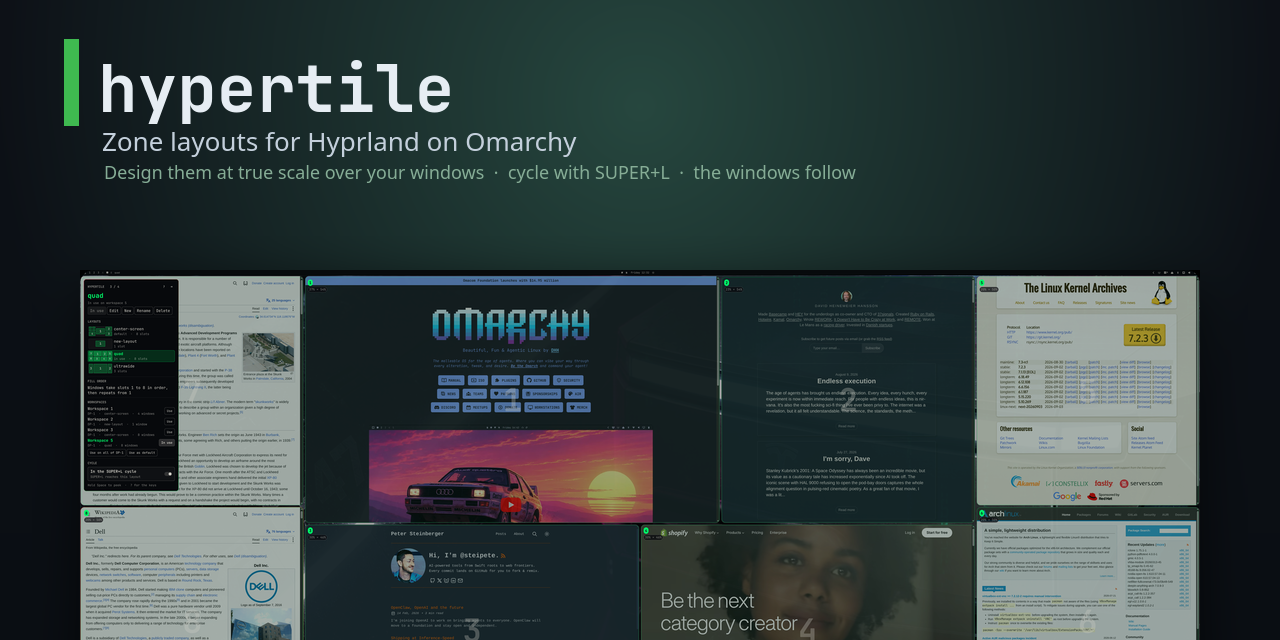
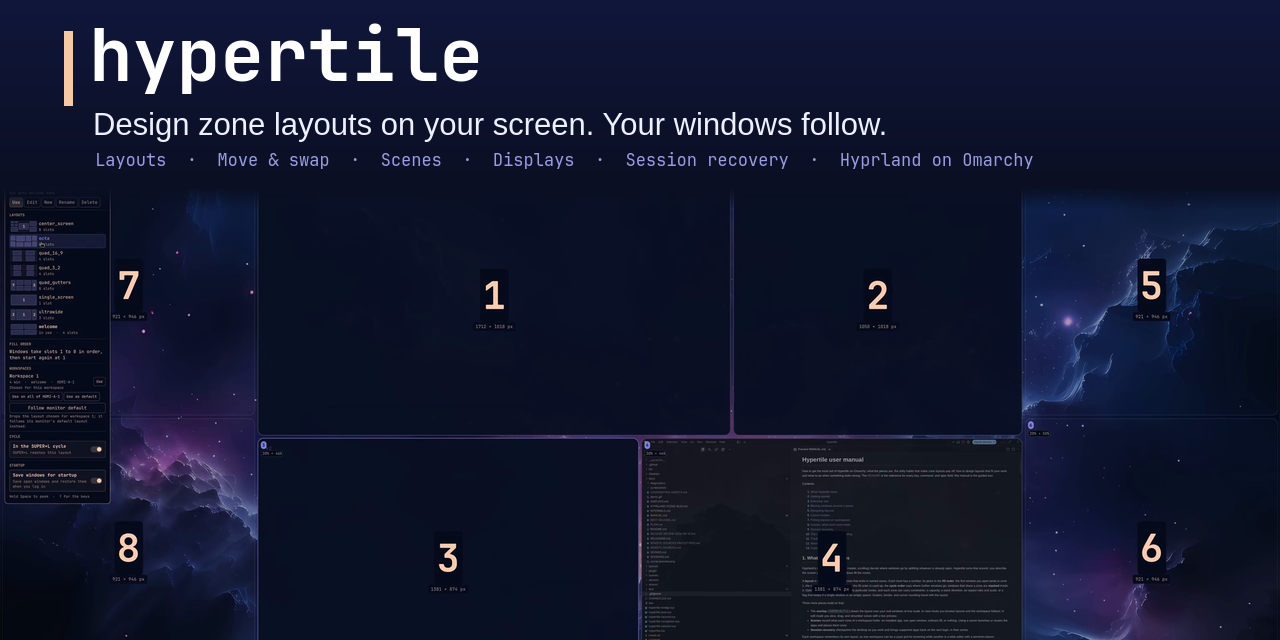
Refresh the marketplace preview image and description
Rebuild preview.png from the highlights video's eight-zone frame so the
overlay and zone grid read at the marketplace's card size, lead the
manifest description with what Hypertile does for the user, and match
the GitHub social preview to the new composition.

diff --git a/CHANGELOG.md b/CHANGELOG.md
@@ -1,5 +1,10 @@
 # Changelog
 
+## Unreleased
+
+- New marketplace preview image and a benefit-led manifest description; the
+  GitHub social preview matches.
+
 ## 1.4.1 (2026-09-18)
 
 - Resolve inherited default layouts when `looknfeel.lua` has no layout override,
